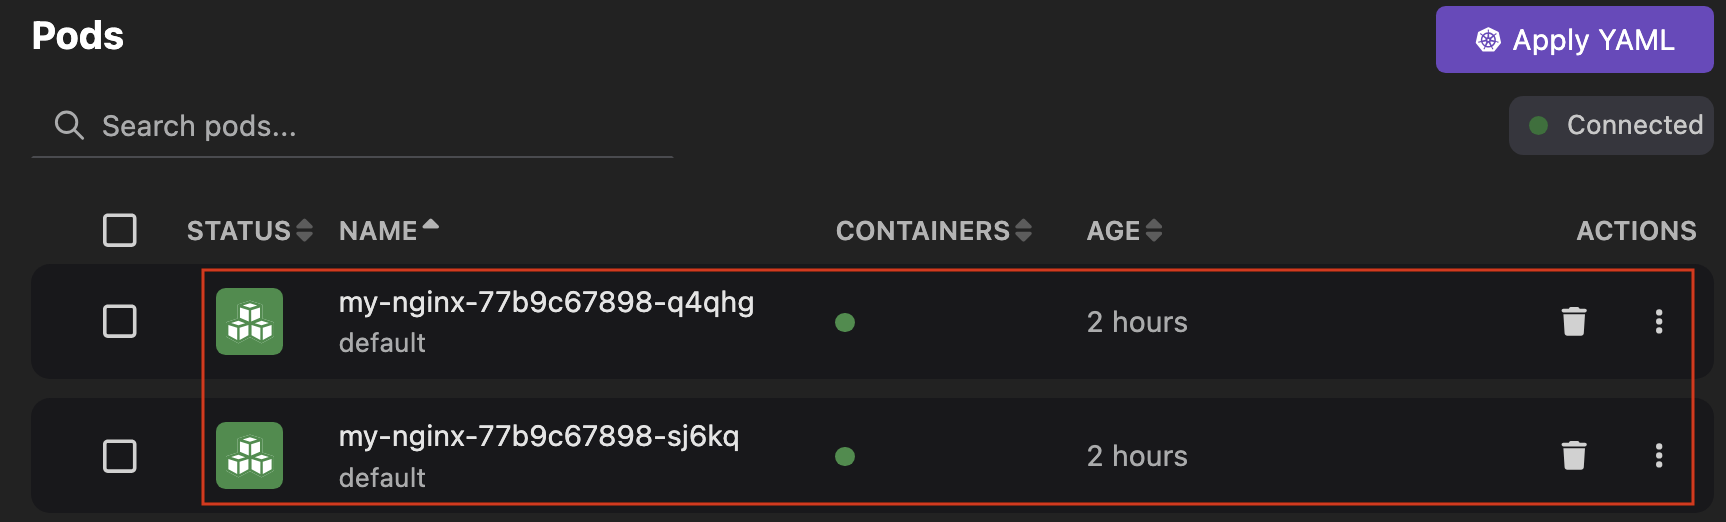
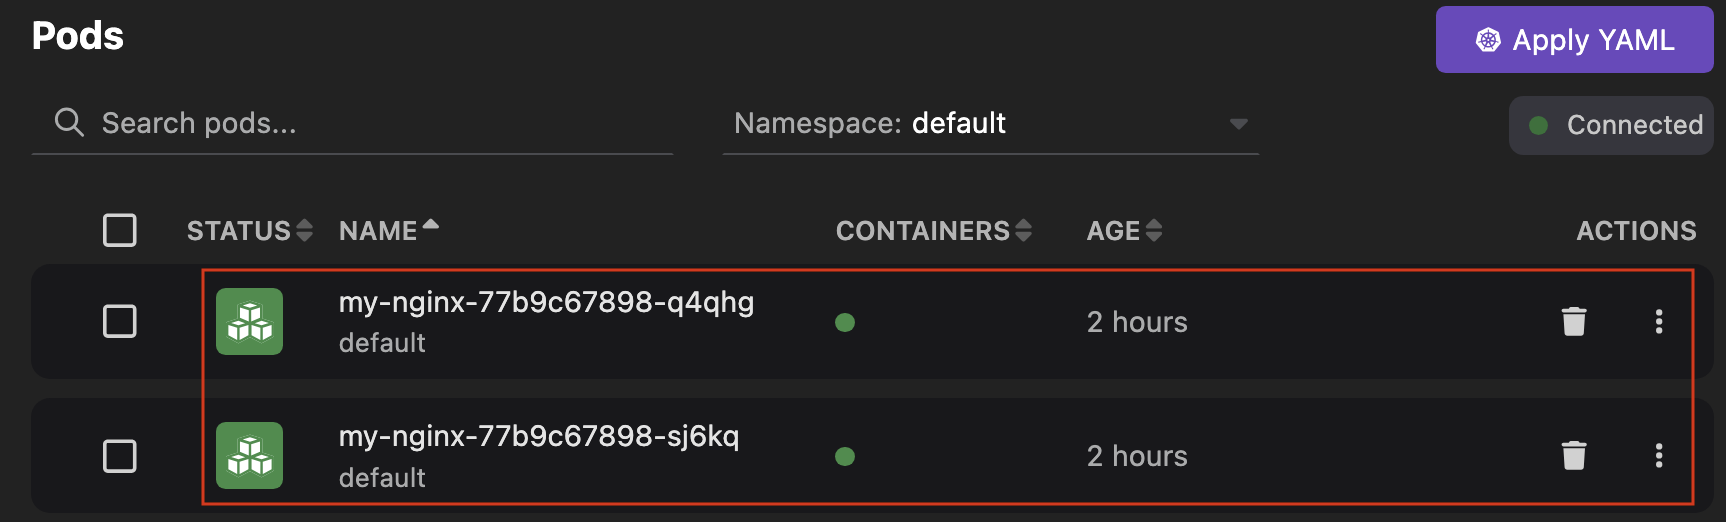
docs(website): updated the Kubernetes section to reflect how to switch between namespaces

Changed region(s): [[0.0307, 0.2146, 0.3992, 0.3065], [0.4299, 0.2146, 0.7063, 0.3065], [0.7063, 0.2146, 0.737, 0.2452]]

diff --git a/website/docs/kubernetes/viewing-and-selecting-current-kubernetes-context.md b/website/docs/kubernetes/viewing-and-selecting-current-kubernetes-context.md
@@ -20,7 +20,7 @@ Based on your configurations, Podman Desktop automatically populates the context
 
 :::note
 
-When you select a Kubernetes context, you can access all the namespaces associated with it. However, you cannot switch from one namespace to another using the Podman Desktop UI. As an alternative, you can use this command: `kubectl config set-context --current --namespace=<name-of-the-namespace>`.
+When you select a Kubernetes context, you can access all the namespaces associated with it. You can switch from one namespace to another using the Kubernetes dashboard page or Kubernetes object pages.
 
 :::
 

diff --git a/website/docs/kubernetes/configuring-editing-kube-object.md b/website/docs/kubernetes/configuring-editing-kube-object.md
@@ -71,7 +71,7 @@ spec:
 1. View the created object:
 
    - View the `Pod` object on the **Kubernetes > Pods** object page.
-   - View the other Kubernetes objects on the related object page. For example, if you have created a `Node` object, you can view it on the **Kubernetes > Nodes** page.
+   - View other Kubernetes objects on the related object page. For example, if you have created a `Node` object, you can view it on the **Kubernetes > Nodes** page.
 
 2. Optional: Click the name of the object to view its detailed summary.
    ![summary tab](img/summary-tab.png)

diff --git a/website/docs/kubernetes/deploying-a-pod-to-kubernetes.md b/website/docs/kubernetes/deploying-a-pod-to-kubernetes.md
@@ -45,7 +45,7 @@ With Podman Desktop, you can deploy a pod to your Kubernetes cluster with an act
 1. On the **Deploy generated pod to Kubernetes** screen, the created pod status is _Phase: Running_
    ![Deploying a pod](img/deploying-a-pod.png)
 
-1. Go to **Pods**: your Kubernetes pod is in the list.
+1. Go to **Kubernetes > Pods**: your Kubernetes pod is in the list.
    ![kube pod in the list](img/kube-pod-in-the-list.png)
 
 1. Optional: Check the running service on the **Kubernetes > Services** page.

diff --git a/website/docs/kubernetes/applying-a-yaml-manifest.md b/website/docs/kubernetes/applying-a-yaml-manifest.md
@@ -46,6 +46,7 @@ This YAML manifest creates three pods that run the NGINX web server.
 
 1. Go to the **Kubernetes** component page.
 1. Click **Deployments** in the left navigation pane.
+1. Select a namespace in which you want to create the object.
 1. Click **Apply YAML** and select the YAML manifest file. A confirmation notification opens.
    ![applying a yaml manifest](img/applying-a-yaml-manifest.png)
 1. Click **OK**.
